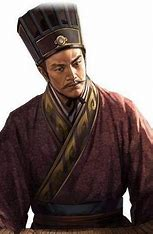
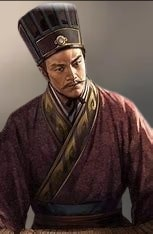
feat(character): 为荀黯添加新技能并更新现有技能
- 为荀黯角色添加新技能"股肱"，增强其策略深度
- 更新荀黯的"假道"技能，增加与新技能的互动
- 调整原画

diff --git a/js/character.js b/js/character.js
@@ -68,7 +68,7 @@ game.import("character", () => {
                 sex: "male",
                 group: "xjb_chunqiu_jin",
                 hp: 3,
-                skills: ["xjb_jiatu"],
+                skills: ["xjb_jiatu", "xjb_gugong"],
                 trashBin: [],
                 names: "姬|黯"
             },
